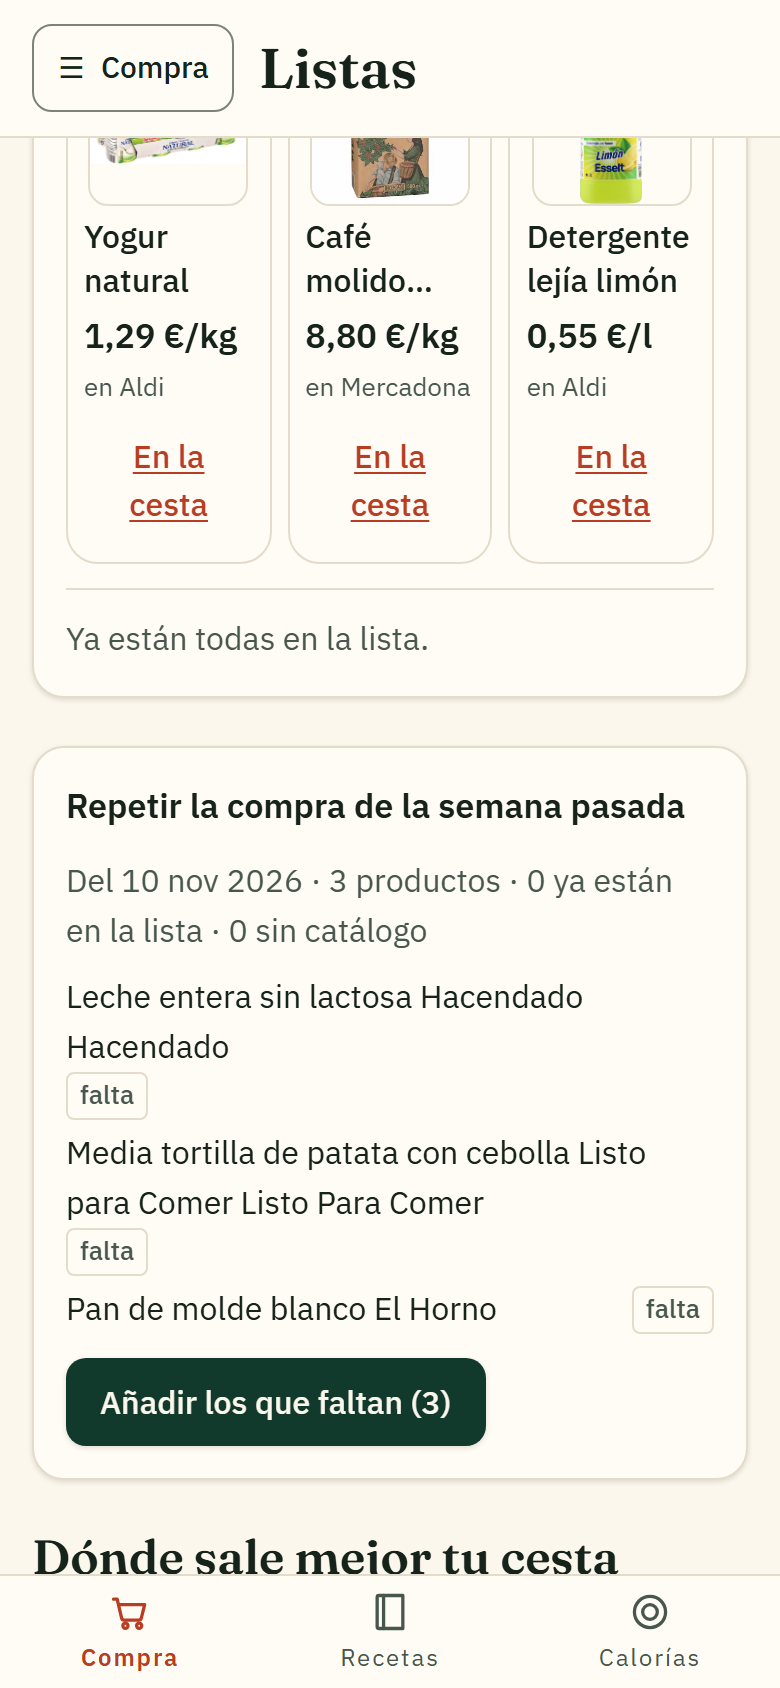
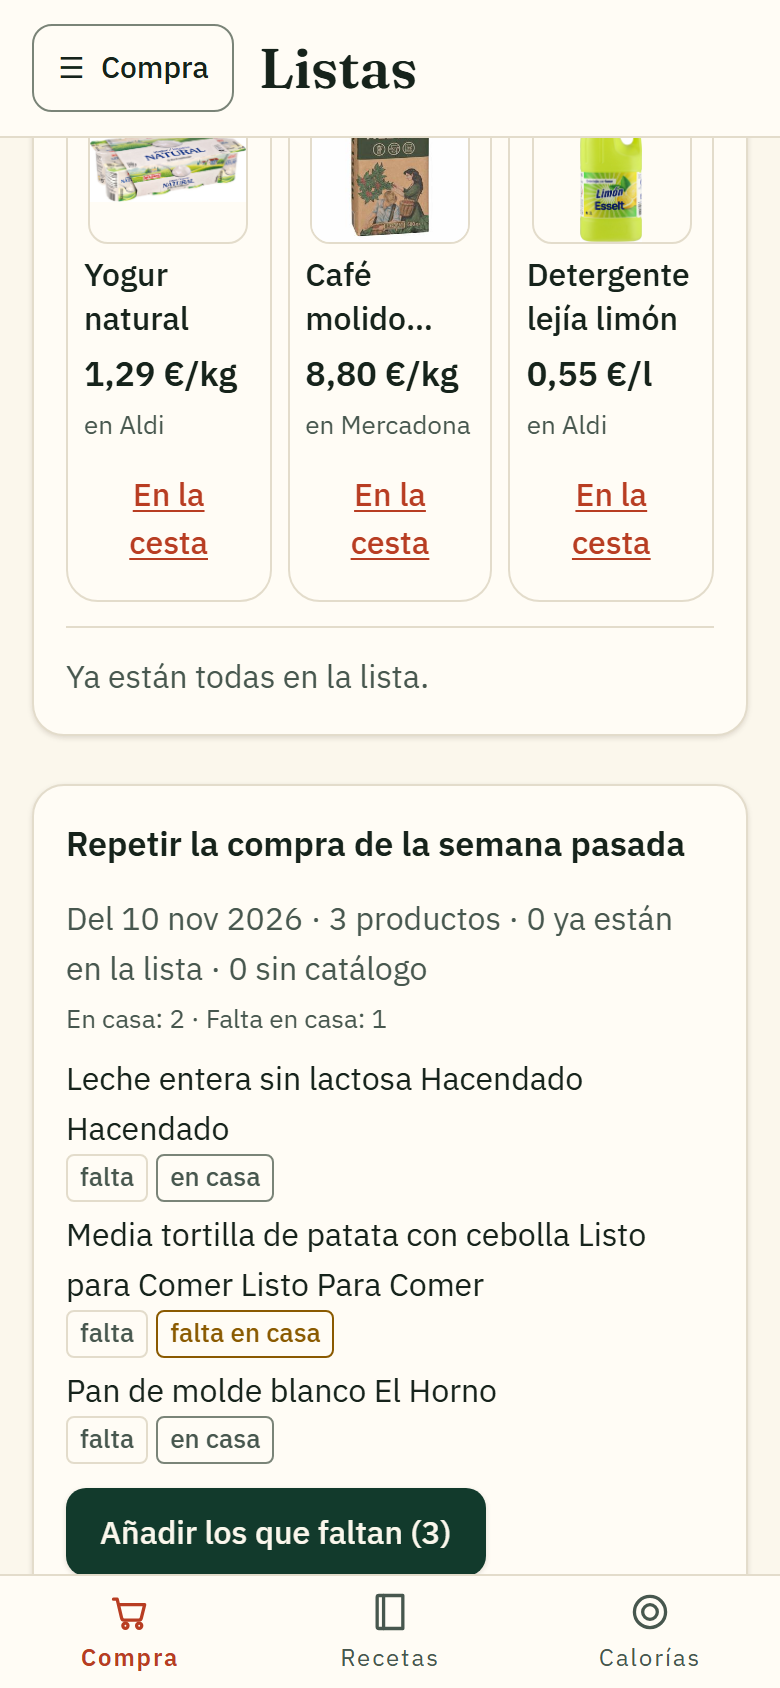
Documentar la compra semanal con despensa y actualizar capturas

diff --git a/PORTFOLIO.md b/PORTFOLIO.md
@@ -27,7 +27,7 @@ sin inventar precios, sin contar ofertas condicionadas como descuento real y sin
 | **Calidad de datos** | Identidad por EAN, reglas de unidad, guardas de cobertura y avisos | Precisión del emparejamiento **91,1 %** medida sobre **4.804 pares** con verdad de código de barras; EAN en el **48,5 %** del catálogo; cada cadena declara filas, referencia, huecos y veredicto |
 | **Análisis de competencia** | Qué hacen Soysuper, Idealo, CamelCamelCamel, Lidl Plus, Mercadona y Yuka; qué se copia y qué no | `INVESTIGACION-APP.md`, `docs/COMPETENCIA.md` |
 | **Requisitos y decisiones** | Alcance, especificación maestra, backlog y decisiones escritas con su porqué | `ALCANCE-APP.md`, `docs/SUPERAPP-ESPECIFICACION-MAESTRA-2026-10-18.md`, `DECISIONES.md`, `docs/decisiones-interfaz-2026-11-09.md` |
-| **Del dato a la decisión** | Comparativa de cesta con ahorro, €/unidad y mínimo visto | En la compra de ejemplo (8 productos): **6,78 € de ahorro posible (−28 %)** frente a la cadena más cara; productos **ordenados por lo que se ahorra** (hasta **3,79 € de diferencia** en un mismo producto); €/l y €/kg en cada línea; «En su mínimo · 3,87 €» |
+| **Del dato a la decisión** | Comparativa de cesta con ahorro, €/unidad y mínimo visto | En la compra de ejemplo (8 productos): **6,78 € de ahorro posible (−28 %)** frente a la cadena más cara; productos **ordenados por lo que se ahorra** (hasta **3,79 € de diferencia** en un mismo producto); €/l y €/kg en cada línea; «En su mínimo · 3,87 €»; y **repetir la compra semanal en un clic**, con lo que falta marcado **y lo que ya está en casa** (En casa: 2 · Falta en casa: 1) |
 | **Verificación, no confianza** | Pruebas automáticas, puertas de navegador y arranque reproducible | **1.502 pruebas** Python en verde, **269** de componentes web, **404** de lógica JS; recorrido de punta a punta **11/11** sin errores de consola |
 
 **Cómo se ve la comparación honesta.** El ahorro grande es la suma, línea a línea, de lo que
@@ -45,7 +45,7 @@ en su **mínimo histórico** se marca. Nada de «0,00 €» cuando falta un dato
 | ![Comparativa](docs/portfolio/02-comparativa.png) | ![Producto a producto](docs/portfolio/02b-productos.png) |
 | **Comparativa.** Ahorro grande, desglose y barra por cadena; productos ordenados por ahorro. | **Producto a producto.** €/unidad en cada cadena, «hasta X € de diferencia» y marca de mínimo. |
 | ![Sugerencias](docs/portfolio/03-sugerencias.png) | ![Exportar](docs/portfolio/04-exportar.png) |
-| **Sugerencias.** «Lo de siempre» y repetir la compra anterior con lo que falta. | **Exportar.** La lista a CSV (también copiar como texto). |
+| **Sugerencias.** «Lo de siempre» y repetir la compra anterior: lo que falta, y lo que ya está en casa. | **Exportar.** La lista a CSV (también copiar como texto). |
 
 El CSV de ejemplo está en [`docs/portfolio/ejemplo-lista.csv`](docs/portfolio/ejemplo-lista.csv).
 El recorrido que las produce, con sus comprobaciones, en

diff --git a/ESTADO-AGENTE.md b/ESTADO-AGENTE.md
@@ -1,7 +1,7 @@
 titulo: Cesta — superapp de compra, recetas y calorias
-resumen: Sesión del 10/11 (tarde): **decisiones de comparativa aplicadas sin esperar a David** —productos ordenados por lo que se ahorra y el motivo dicho bajo el nombre («hasta X € de diferencia»), €/unidad en su línea para que el nombre largo no aplaste el precio, y estados vacíos distintos y con salida (lista vacía/movidas, ninguna cadena la resuelve, ni detalle ni totales, y equivalentes sin confirmar)—. Se regeneraron las capturas del portfolio y el recorrido de punta a punta volvió a pasar **11 de 11** sin errores de consola. `.cmd` de doble clic verificado otra vez: log `[fin] resultado=OK en 0,5 s`, navegador abierto y ningún proceso del lanzador vivo. Web 271 vitest, 404 node, tipos/lint/build limpios (`sw 2026111014`); suite Python completa: **1.502 verdes, 813 saltadas, 0 rojos, 13 min 5 s**.
+resumen: Sesión del 10/11 (tarde): **la compra semanal ahora mira la despensa**. Repetir la compra de la semana pasada ya añadía lo que falta en la lista; ahora la previa marca cada línea con `en_casa: true/false/null` (comparación por nombre, `null` cuando no se pudo leer la despensa: «no lo sé» no es «no lo tienes»), la tarjeta enseña «En casa: 2 · Falta en casa: 1» con pastillas `en casa` / `falta en casa`, y **no cambia lo que añade**: repetir reproduce la compra; saber qué tienes es información, no una regla que borre líneas. Comprobado con la cuenta de demo y el catálogo real: 0/3 en casa → declaradas dos cosas → 2/1; el POST añadió las 3 (201) y la lista se restauró a 8 líneas. La comparativa de ahorro y el €/unidad se revalidaron con el recorrido de punta a punta (11/11) y capturas regeneradas. Pruebas: backend 25 (tres nuevas), web 272 vitest (una nueva en la tarjeta) y 404 node, tipos/lint/build limpios (`sw 2026111015`); suite Python completa: **1.505 verdes, 813 saltadas, 0 rojos, 12 min 54 s**.
 estado: en-curso
-tarea: formato/orden/estados vacíos de la comparativa decididos y aplicados; €/unidad visible; portfolio recapturado; .cmd verificado
+tarea: compra semanal con despensa (marcar en casa / falta en casa) aplicada y probada; comparativa con ahorro y €/unidad revalidada; portfolio recapturado
 nivel: 2
 siguiente: David decide las tres de `docs/decisiones-interfaz-2026-11-09.md` (duplicado de Carrefour con el mismo EAN, base de los porcentajes, contador vs lista en la receta), las de despliegue de §8 (móvil M1/M2/M3, respaldo programado, CESTA_REGISTRO, poda de gold) y la vara de Alcampo. Para el portfolio: decidir si se comparte el repositorio con un invitado o se publica una demo más allá de la tailnet.
 bloqueado: las decisiones de interfaz, despliegue y vara de Alcampo; el mapeo automático de supers sigue en espera de decisión y de una exportación RGPD real.

diff --git a/docs/DIA-A-DIA-2026-11-09.md b/docs/DIA-A-DIA-2026-11-09.md
@@ -151,3 +151,31 @@ Tres decisiones que no dependían de David, aplicadas en la comparativa:
 
 Las capturas del portfolio se regeneraron con este formato; el recorrido de punta a punta volvió a
 pasar 11 de 11 sin errores de consola.
+
+
+## Vuelta del 10/11 (tarde): la compra semanal mira la despensa
+
+«Repetir la compra de la semana pasada» ya añadía lo que falta en la lista; ahora también dice
+**lo que falta en casa**. La previa (GET /api/listas/{id}/repetir-compra) lleva en cada línea
+en_casa: true | false | null y dos contadores nuevos:
+
+- **	rue**: ese texto está declarado en la despensa (se compara por nombre en minúsculas, como la
+  previa de un plan: la despensa guarda texto, no identidad de producto).
+- **alse**: no está. Se marca «falta en casa».
+- **
+ull**: no se pudo leer la despensa. No se afirma nada: «no lo sé» no es «no lo tienes».
+
+La tarjeta enseña «En casa: 2 · Falta en casa: 1», pone la pastilla en casa o alta en casa en
+las líneas que se van a añadir, y **no cambia lo que añade**: repetir reproduce la compra; saber qué
+tienes es información para decidir, no una regla que borre líneas por su cuenta. El POST sigue
+siendo idempotente y devuelve el mismo recibo.
+
+**Comprobado con la cuenta de demo y el catálogo real**: antes de declarar nada, 0 en casa / 3
+faltan en casa; declaradas dos cosas en la despensa → **2 en casa / 1 falta en casa**; el POST añadió
+las 3 (201) y la lista se restauró a 8 líneas. Captura: docs/portfolio/03-sugerencias.png.
+
+Pruebas: backend **25** en 	ests/test_repetir_compra.py (tres nuevas: marca por nombre, 
+ull
+cuando no se puede leer, y la ruta con despensa leída) y web **30** en Cesta.test.tsx (una nueva
+con las pastillas y el recuento). La comparativa de ahorro y el €/unidad se revalidaron con el
+recorrido de punta a punta (11/11) y la captura docs/portfolio/02-comparativa.png.
